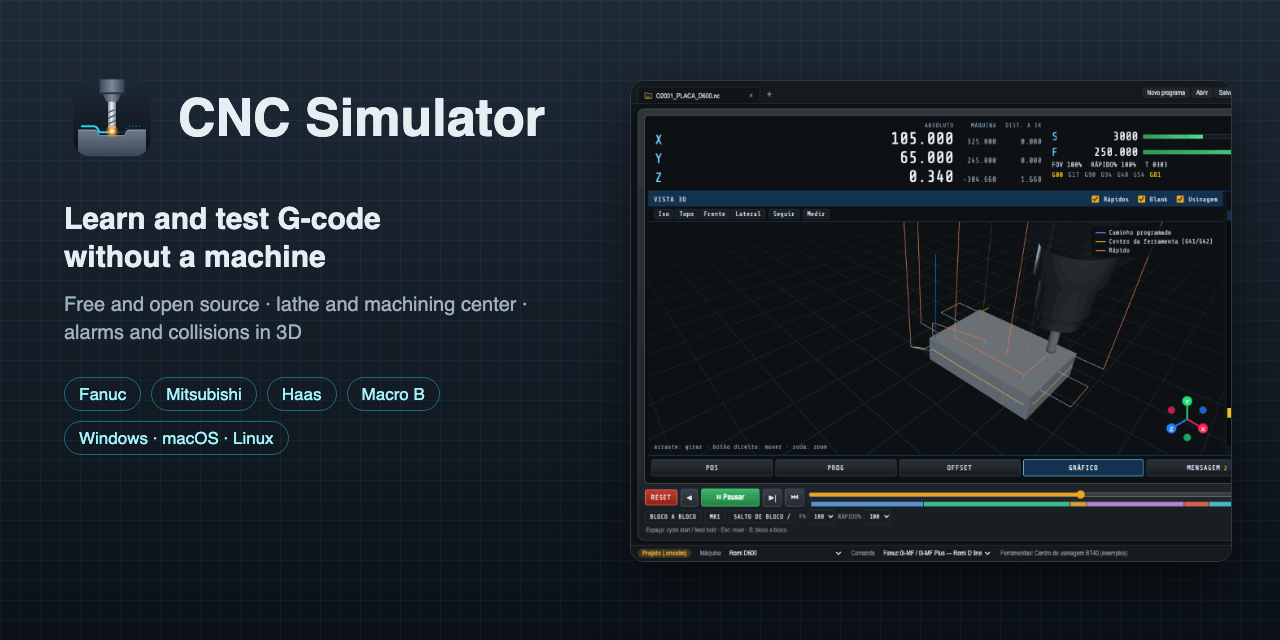
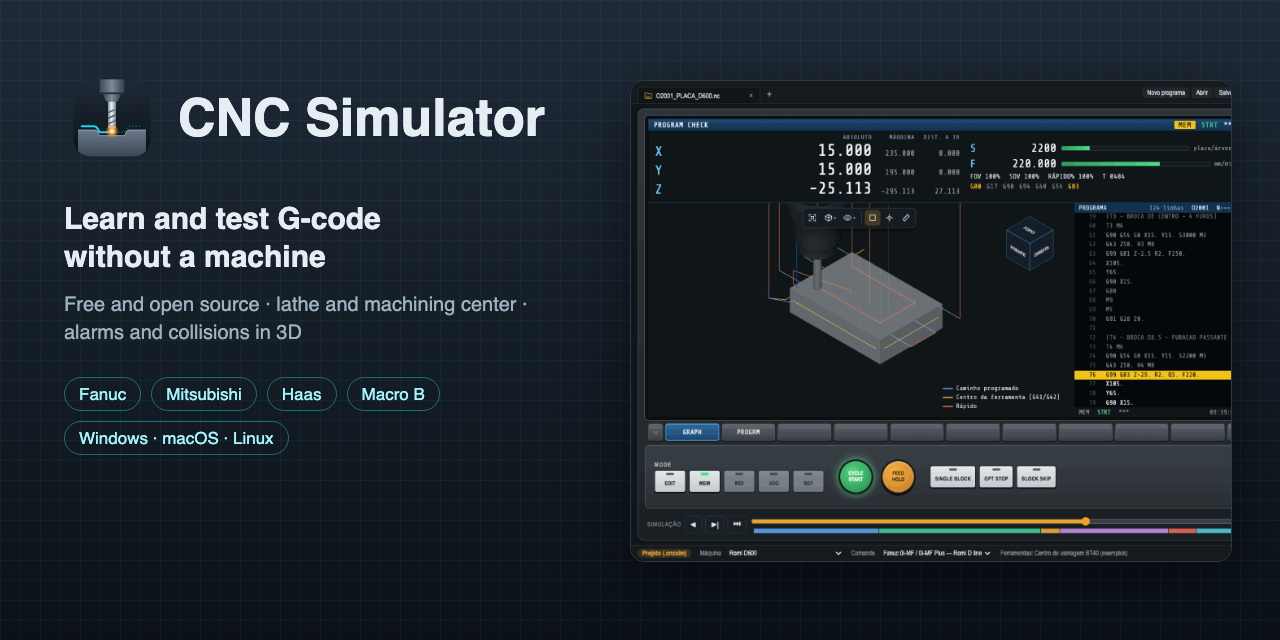
docs: machine screen like the control

Changed region(s): [[0.5, 0.1875, 0.9688, 0.8438]]

diff --git a/README.md b/README.md
@@ -38,7 +38,7 @@ Installers for every version are on the **[Releases page](https://github.com/ism
 - **Parametric programs (Macro B):** variables, math and IF/GOTO/WHILE run as on the control, on every bundled machine (all their controls have the macro option). Plain G-code and the control's own canned cycles run too; the examples have both.
 - **Stops on the machine's alarms:** program errors stop at the block with the control's own number and message (for example `PS0010 IMPROPER G-CODE`).
 - **Operator panel:** single block, M01 optional stop, block delete "/", feed and rapid overrides (the cycle time follows them), and breakpoints on any line.
-- **Screen like the machine:** the **Machine** screen puts everything on one control screen, as on the machine: position in large digits with machine coordinates and distance to go, spindle and feed with load bars and overrides, active codes, the 3D view next to the running program, and **soft keys** for the POS (ALL), PROG, OFFSET, GRAPH, MESSAGE and SETTING pages. The operator panel is underneath; **Space** is cycle start / feed hold, **Esc** is reset and **S** single block. The **3D model** screen (program, large 3D view, operations and setup) is one click away at the top right, or in **View** (Ctrl/⌘+1 and 2).
+- **Screen like the machine:** the **Machine** screen is laid out like a control (no maker's branding): the display with its title bar (page, MEM/EDIT, STRT/HOLD, ALM), position with machine coordinates and distance to go, spindle and feed with load bars and overrides, the program; **soft keys** under it; the **MDI keys** beside it (POS, PROG, OFS/SET, SYSTEM, MESSAGE, GRAPH switch pages; RESET; the cursor and PAGE keys step through the program); and the **operator panel** below: MODE (EDIT/MEM), **CYCLE START** and **FEED HOLD**, SINGLE BLOCK, OPT STOP, BLOCK SKIP and the **feed, rapid and spindle override knobs**. An alarm shows across the top of the screen with its number and short text; the MESSAGE page has the full message. Keyboard: **Space** cycle start / feed hold, **Esc** reset, **S** single block. The simulation speed and timeline stay apart, under the panel.
 - **3D model, as in CAD programs:** a **feature tree** on the left (program, machine, stock, work offsets, tools, the operations the program makes and its messages; click an operation to go to it and highlight it in 3D), the program under it, and the model with a **view toolbar** (fit, iso/top/front/side, what is shown, orthographic or perspective, follow tool, measure) and a **view cube** to click. Views are exact (Top and Front are really flat) and the camera is **orthographic** by default; **F** fits the part. The **timeline** under the slider is colored by tool and marks M00/M01 stops, breakpoints, collisions and the alarm; an alarm also shows as a red line across the top of the view.
 - **First-use tour:** a short walk through the screen the first time a program opens, and again from the **?** at the top right (with learning mode and the keyboard shortcuts).
 - **Learning mode (?):** hover a G/M code, a #variable or a macro word in the program (or in the editor) to see what it does on the selected control; the block at the cursor is explained word by word under the program. G71 on a Fanuc lathe, M97 on a Haas: the help follows the control.
@@ -370,7 +370,7 @@ Three separate files you can mix: the same machine with another control, or one 
    - ✅ **Learning mode:** help on each G/M code, address and macro word, guided exercises checked against the solution's part.
    - ✅ **Document tabs and start screen:** several documents open in tabs, start screen with Recent, Examples and Exercises, machine and control asked when a program opens alone.
    - ✅ **3D model like a CAD program:** exact standard views, view cube, orthographic camera, feature tree, alarm line.
-   - **Next:** a machine screen closer to the control (MDI keys, operator panel, control fonts and soft keys).
+   - ✅ **Machine screen like a control:** MDI keys, soft keys, operator panel with override knobs, alarm line.
    - **Next:** more exercises (grooving, threading, pockets, subprograms), exercises written by teachers and shared as files.
 
 ## License

diff --git a/README.pt-BR.md b/README.pt-BR.md
@@ -38,7 +38,7 @@ Os instaladores de cada versão estão na **[página de Releases](https://github
 - **Programas parametrizados (Macro B):** variáveis, contas e IF/GOTO/WHILE rodam como no comando, em todas as máquinas incluídas (todos os comandos delas têm a opção de macro). G-code comum e os ciclos fixos do próprio comando também; os exemplos têm os dois.
 - **Para nos alarmes da máquina:** erros de programa param no bloco com o número e a mensagem do próprio comando (por exemplo `PS0010 IMPROPER G-CODE`).
 - **Painel de operação:** bloco a bloco, parada opcional M01, salto de bloco "/", override de avanço e de rápido (o tempo de ciclo acompanha) e pontos de parada em qualquer linha.
-- **Tela como a da máquina:** a tela **Máquina** põe tudo numa tela de comando, como na máquina: posição em dígitos grandes com coordenadas de máquina e distância a ir, rotação e avanço com barras e overrides, códigos ativos, a vista 3D ao lado do programa em execução e **softkeys** para as páginas POS (ALL), PROG, OFFSET, GRÁFICO, MENSAGEM e AJUSTES. O painel de operação fica embaixo; **Espaço** é cycle start / feed hold, **Esc** é reset e **S** bloco a bloco. A tela **Modelo 3D** (programa, vista 3D grande, operações e preparação) está a um clique, no canto superior direito, ou em **Exibir** (Ctrl/⌘+1 e 2).
+- **Tela como a da máquina:** a tela **Máquina** é montada como um comando (sem marcas de fabricante): o display com a barra de título (página, MEM/EDIT, STRT/HOLD, ALM), posição com coordenadas de máquina e distância a ir, rotação e avanço com barras e overrides, o programa; as **softkeys** embaixo; o **teclado MDI** ao lado (POS, PROG, OFS/SET, SYSTEM, MESSAGE e GRAPH trocam a página; RESET; o cursor e o PAGE andam pelo programa); e o **painel de operação** abaixo: MODE (EDIT/MEM), **CYCLE START** e **FEED HOLD**, SINGLE BLOCK, OPT STOP, BLOCK SKIP e os **knobs de override de avanço, rápido e árvore**. Um alarme aparece no alto da tela com o número e o texto curto; a página MESSAGE tem a mensagem completa. Teclado: **Espaço** cycle start / feed hold, **Esc** reset, **S** bloco a bloco. A velocidade e a linha do tempo da simulação ficam à parte, embaixo do painel.
 - **Modelo 3D, como nos programas de CAD:** uma **árvore** à esquerda (programa, máquina, blank, zeros, ferramentas, as operações que o programa faz e as mensagens; clique numa operação para ir até ela e destacá-la no 3D), o programa abaixo dela, e o modelo com uma **barra de vistas** (ajustar, iso/topo/frente/lateral, o que mostrar, ortográfica ou perspectiva, seguir ferramenta, medir) e um **cubo de vistas** para clicar. As vistas são exatas (Topo e Frente ficam realmente planas) e a câmera é **ortográfica** por padrão; **F** ajusta a peça na tela. A **linha do tempo** abaixo do controle deslizante tem a cor de cada ferramenta e marca paradas M00/M01, pontos de parada, colisões e o alarme; um alarme também aparece como uma linha vermelha no alto da vista.
 - **Tour do primeiro uso:** um passeio curto pela tela na primeira vez que um programa abre, e de novo pelo **?** no canto superior direito (com o modo aprender e os atalhos de teclado).
 - **Modo aprender (?):** passe o mouse num código G/M, numa #variável ou numa palavra de macro do programa (ou do editor) para ver o que ela faz no comando escolhido; o bloco do cursor é explicado palavra por palavra abaixo do programa. G71 no torno Fanuc, M97 na Haas: a ajuda segue o comando.
